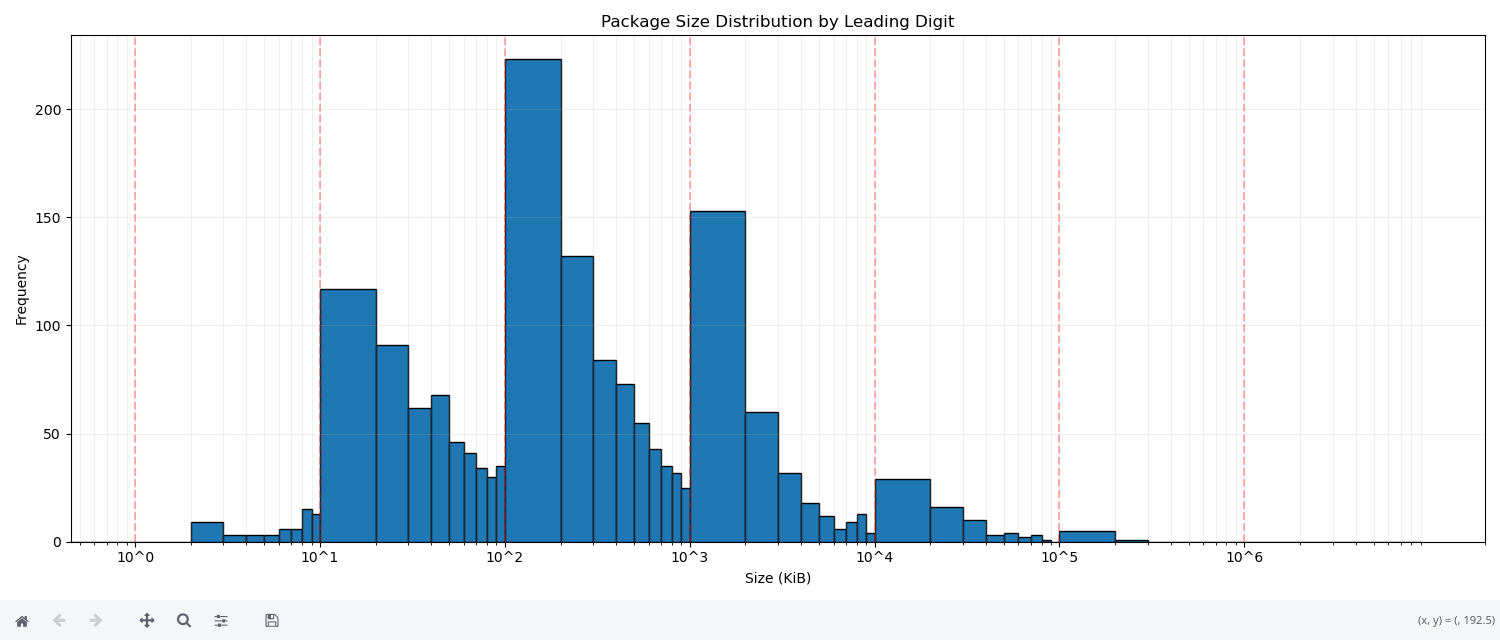
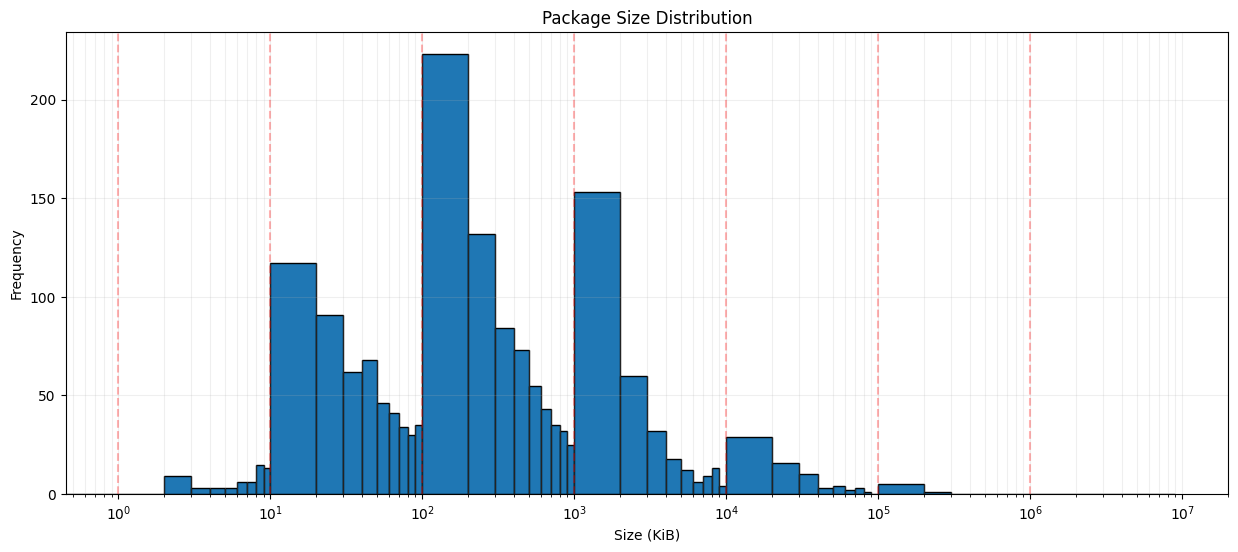
update README.md

diff --git a/README.md b/README.md
@@ -8,9 +8,12 @@ State of the art as of: 2025/03/14
 
 _Inspired_ by watching pacman upgrade logs and having watched a [fantastic TV series about maths](https://www.arte.tv/de/videos/RC-021426/mathewelten/), I tried out, what [Cursor IDE](https://www.cursor.com/) is able to do and to help me to prove (or refute), that ["Benford's Law"](https://en.wikipedia.org/wiki/Benford%27s_law) holds for the package's file sizes.
 
-In a first session, the AI returned amazing plots ... that contained a major bug, because the script also recognizes `MiB/s` as a file size. In the next session I turned the AI generated (and modified) files to a jupyter notebook, that can be run to reproduce my results ... and see some amazing plots.
+In a first session, the AI returned amazing plots ... that contained a major bug, because the script also recognizes `MiB/s` as a file size, which I - in turn - noticed by running a AI generated jupyter notebook.
+
+This notebook can be used to produce these two insightfull plots
 
 ![](histogram.png)
+![](fits.png)
 
 **Note:** I did the part with the logarithmic scale, Cursor failed on that dramatically.
 
@@ -38,19 +41,19 @@ In previous chat (whose history I have delete unfortunatley) i explored a pacman
 
 help me to turn my results into a jupyter notebook.
 
-> _returned more or less the complete notebook here_
+> returned _more or less the complete notebook here_
 
 there's a bug in the script. the regular expression also matches the the download speed (the column next to the size). correct this
 
-> _returned `pattern = r'(\d+(?:\.\d+)?)\s*(MiB|KiB)\s+[^\n]*$'`_
+> _`pattern = r'(\d+(?:\.\d+)?)\s*(MiB|KiB)\s+[^\n]*$'`_
 
 use a look ahead assertion instead
 
-> _returned `pattern = r'(\d+(?:\.\d+)?)\s*(MiB|KiB)(?=\s+\d+(?:\.\d+)?\s*MiB/s)'`_
+> _`pattern = r'(\d+(?:\.\d+)?)\s*(MiB|KiB)(?=\s+\d+(?:\.\d+)?\s*MiB/s)'`_
 
 use a negative look ahead asseration to match any but "MiB" followed by "/s"
 
-> _returned `pattern = r'(\d+(?:\.\d+)?)\s*(MiB|KiB)(?!\s+MiB/s)'`_
+> _`pattern = r'(\d+(?:\.\d+)?)\s*(MiB|KiB)(?!\s+MiB/s)'`_
 
 did you mean `pattern = r'(\d+(?:\.\d+)?)\s\*(MiB|KiB)(?!/s)'`?
 
@@ -58,12 +61,10 @@ did you mean `pattern = r'(\d+(?:\.\d+)?)\s\*(MiB|KiB)(?!/s)'`?
 
 add this negative look ahead assertion to the go version
 
-> _returned `sizeRegex := regexp.MustCompile(`(\d+(?:\.\d+)?)\s\*(MiB|KiB)(?!/s)`)`, which [doesn't work](https://stackoverflow.com/questions/26771592/negative-look-ahead-in-go-regular-expressions)_
+> _`sizeRegex := regexp.MustCompile(`(\d+(?:\.\d+)?)\s\*(MiB|KiB)(?!/s)`)`, which [doesn't work](https://stackoverflow.com/questions/26771592/negative-look-ahead-in-go-regular-expressions)_
 
 this returns: panic: regexp: Compile(`(\d+(?:\.\d+)?)\s*(MiB|KiB)(?!\/s)`): error parsing regexp: invalid or unsupported Perl syntax: `(?!`
 
-> _returns_
->
 > ```
 >    sizeRegex := regexp.MustCompile(`(\d+(?:\.\d+)?)\s*(MiB|KiB)`)
 >    speedRegex := regexp.MustCompile(`/s`)
@@ -72,5 +73,4 @@ this returns: panic: regexp: Compile(`(\d+(?:\.\d+)?)\s*(MiB|KiB)(?!\/s)`): erro
 >
 >        if len(matches) >= 3 && !speedRegex.MatchString(matches[0]) {
 >    ...
-> ```
 
